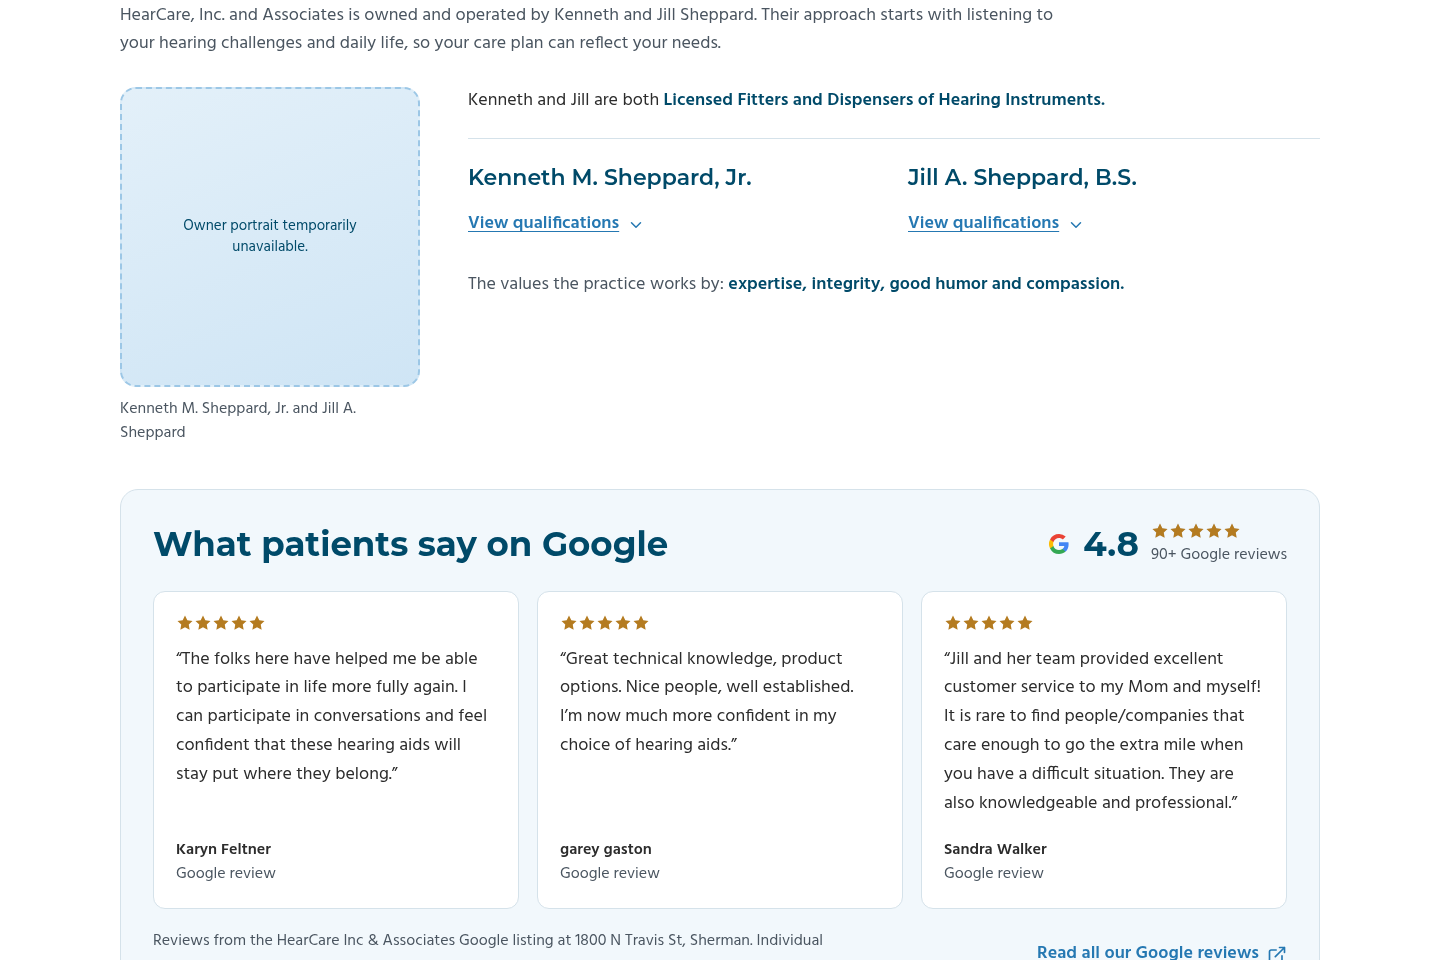
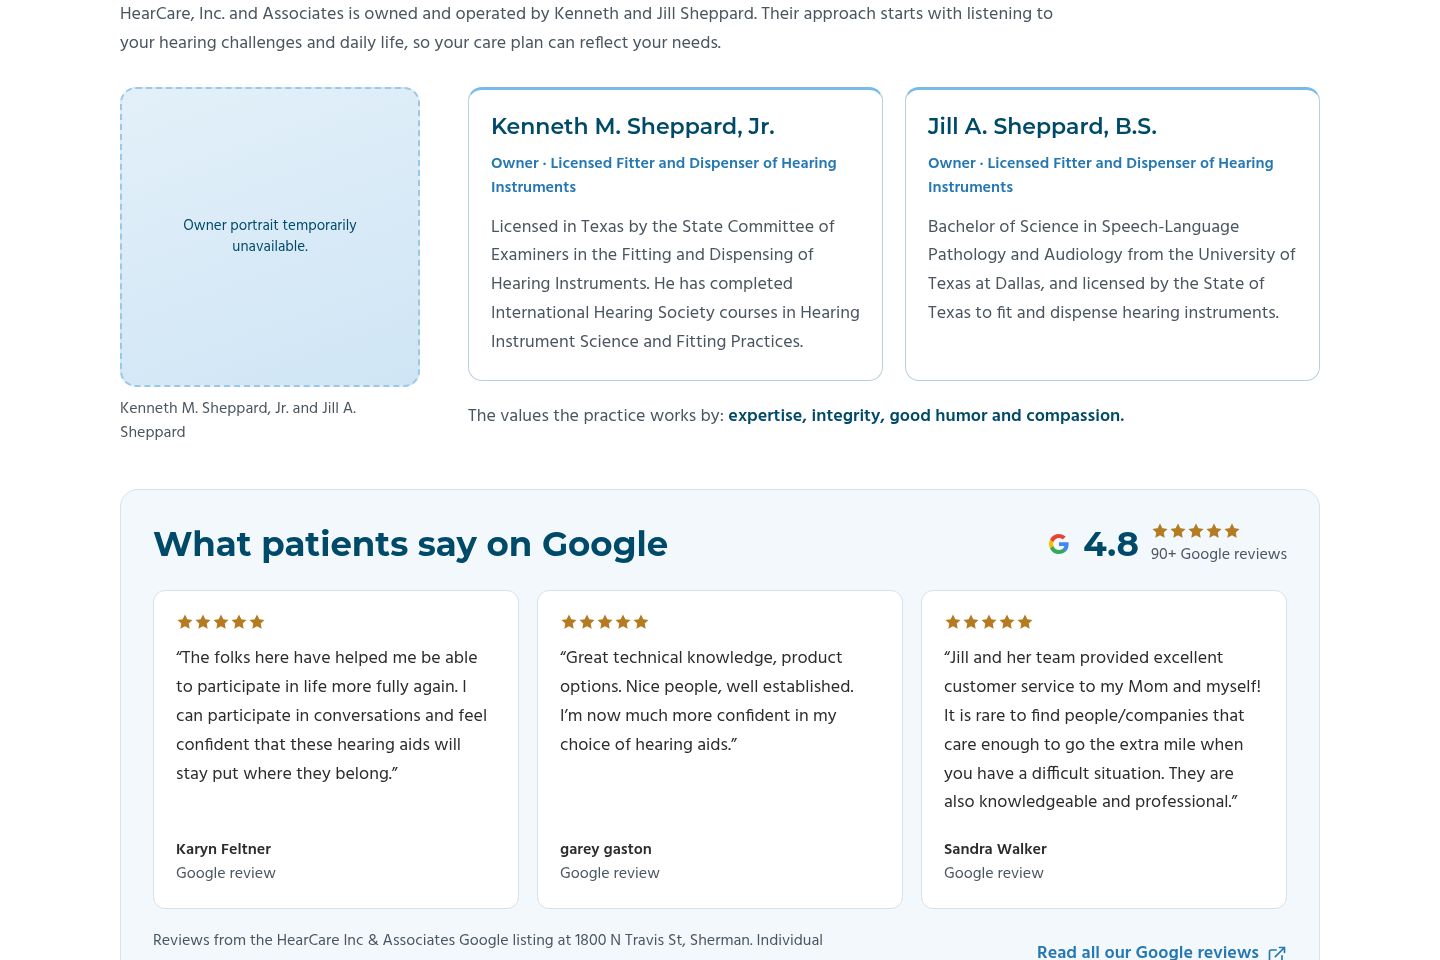
Show owner qualifications directly in visible profiles

diff --git a/index.html b/index.html
@@ -467,6 +467,18 @@ a:hover{ color:var(--hc-navy); }
  .hc-practice .hc-owner-license{ line-height:1.55; }
 }
 
+/* Visible owner profiles: qualifications available without expansion. */
+.hc-practice .hc-creds{ margin-top:0; gap:22px; }
+.hc-practice .hc-cred{ padding:22px; border:1px solid #b8cfdd; border-top:3px solid var(--hc-sky); border-radius:14px; background:var(--hc-white); }
+.hc-practice .hc-cred p{ margin-top:14px; font-size:1.125rem; line-height:1.6; color:var(--hc-muted); }
+.hc-practice .hc-cred .hc-owner-role{ margin-top:10px; color:var(--hc-blue); font-size:1rem; line-height:1.5; font-weight:600; }
+.hc-practice .hc-values{ margin-top:22px; }
+@media(max-width:639px){
+ .hc-practice .hc-owners{ grid-template-areas:"portrait" "credentials" "values"; gap:22px; }
+ .hc-practice .hc-creds{ gap:18px; }
+ .hc-practice .hc-cred,.hc-practice .hc-cred + .hc-cred{ padding:22px 18px; border:1px solid #b8cfdd; border-top:3px solid var(--hc-sky); }
+}
+
 /* ---------- Process: two-phase editorial layout ---------- */
 .hc-process{ padding:64px 0; background:var(--hc-white); }
 .hc-process__intro{ max-width:940px; margin-bottom:34px; }
@@ -993,21 +1005,16 @@ a:hover{ color:var(--hc-navy); }
         <figcaption>Kenneth M. Sheppard, Jr. and Jill A. Sheppard</figcaption>
       </figure>
       <div class="hc-owner-content">
-        <p class="hc-owner-license">Kenneth and Jill are both <strong>Licensed Fitters and Dispensers of Hearing Instruments.</strong></p>
         <div class="hc-creds">
           <div class="hc-cred">
             <h3>Kenneth M. Sheppard, Jr.</h3>
-            <details class="hc-owner-quals">
-              <summary>View qualifications<svg class="hc-icon" aria-hidden="true"><use href="#i-chev"/></svg></summary>
-              <p>Licensed in Texas by the State Committee of Examiners in the Fitting and Dispensing of Hearing Instruments. He has completed International Hearing Society courses in Hearing Instrument Science and Fitting Practices.</p>
-            </details>
+            <p class="hc-owner-role">Owner · Licensed Fitter and Dispenser of Hearing Instruments</p>
+            <p>Licensed in Texas by the State Committee of Examiners in the Fitting and Dispensing of Hearing Instruments. He has completed International Hearing Society courses in Hearing Instrument Science and Fitting Practices.</p>
           </div>
           <div class="hc-cred">
             <h3>Jill A. Sheppard, B.S.</h3>
-            <details class="hc-owner-quals">
-              <summary>View qualifications<svg class="hc-icon" aria-hidden="true"><use href="#i-chev"/></svg></summary>
-              <p>Bachelor of Science in Speech-Language Pathology and Audiology from the University of Texas at Dallas, and licensed by the State of Texas to fit and dispense hearing instruments.</p>
-            </details>
+            <p class="hc-owner-role">Owner · Licensed Fitter and Dispenser of Hearing Instruments</p>
+            <p>Bachelor of Science in Speech-Language Pathology and Audiology from the University of Texas at Dallas, and licensed by the State of Texas to fit and dispense hearing instruments.</p>
           </div>
         </div>
         <p class="hc-values">The values the practice works by: <strong>expertise, integrity, good humor and compassion.</strong></p>

diff --git a/review/hero-review.html b/review/hero-review.html
@@ -467,6 +467,18 @@ a:hover{ color:var(--hc-navy); }
  .hc-practice .hc-owner-license{ line-height:1.55; }
 }
 
+/* Visible owner profiles: qualifications available without expansion. */
+.hc-practice .hc-creds{ margin-top:0; gap:22px; }
+.hc-practice .hc-cred{ padding:22px; border:1px solid #b8cfdd; border-top:3px solid var(--hc-sky); border-radius:14px; background:var(--hc-white); }
+.hc-practice .hc-cred p{ margin-top:14px; font-size:1.125rem; line-height:1.6; color:var(--hc-muted); }
+.hc-practice .hc-cred .hc-owner-role{ margin-top:10px; color:var(--hc-blue); font-size:1rem; line-height:1.5; font-weight:600; }
+.hc-practice .hc-values{ margin-top:22px; }
+@media(max-width:639px){
+ .hc-practice .hc-owners{ grid-template-areas:"portrait" "credentials" "values"; gap:22px; }
+ .hc-practice .hc-creds{ gap:18px; }
+ .hc-practice .hc-cred,.hc-practice .hc-cred + .hc-cred{ padding:22px 18px; border:1px solid #b8cfdd; border-top:3px solid var(--hc-sky); }
+}
+
 /* ---------- Process: two-phase editorial layout ---------- */
 .hc-process{ padding:64px 0; background:var(--hc-white); }
 .hc-process__intro{ max-width:940px; margin-bottom:34px; }
@@ -993,21 +1005,16 @@ a:hover{ color:var(--hc-navy); }
         <figcaption>Kenneth M. Sheppard, Jr. and Jill A. Sheppard</figcaption>
       </figure>
       <div class="hc-owner-content">
-        <p class="hc-owner-license">Kenneth and Jill are both <strong>Licensed Fitters and Dispensers of Hearing Instruments.</strong></p>
         <div class="hc-creds">
           <div class="hc-cred">
             <h3>Kenneth M. Sheppard, Jr.</h3>
-            <details class="hc-owner-quals">
-              <summary>View qualifications<svg class="hc-icon" aria-hidden="true"><use href="#i-chev"/></svg></summary>
-              <p>Licensed in Texas by the State Committee of Examiners in the Fitting and Dispensing of Hearing Instruments. He has completed International Hearing Society courses in Hearing Instrument Science and Fitting Practices.</p>
-            </details>
+            <p class="hc-owner-role">Owner · Licensed Fitter and Dispenser of Hearing Instruments</p>
+            <p>Licensed in Texas by the State Committee of Examiners in the Fitting and Dispensing of Hearing Instruments. He has completed International Hearing Society courses in Hearing Instrument Science and Fitting Practices.</p>
           </div>
           <div class="hc-cred">
             <h3>Jill A. Sheppard, B.S.</h3>
-            <details class="hc-owner-quals">
-              <summary>View qualifications<svg class="hc-icon" aria-hidden="true"><use href="#i-chev"/></svg></summary>
-              <p>Bachelor of Science in Speech-Language Pathology and Audiology from the University of Texas at Dallas, and licensed by the State of Texas to fit and dispense hearing instruments.</p>
-            </details>
+            <p class="hc-owner-role">Owner · Licensed Fitter and Dispenser of Hearing Instruments</p>
+            <p>Bachelor of Science in Speech-Language Pathology and Audiology from the University of Texas at Dallas, and licensed by the State of Texas to fit and dispense hearing instruments.</p>
           </div>
         </div>
         <p class="hc-values">The values the practice works by: <strong>expertise, integrity, good humor and compassion.</strong></p>

diff --git a/review/TRUST_REVIEW.md b/review/TRUST_REVIEW.md
@@ -45,3 +45,11 @@ User-requested mobile centering: center the owner heading/introduction, shared l
 ## Final approval
 
 User explicitly approved this group after the mobile centering correction. Implementation ce97231 is APPROVED / LOCKED, superseding all earlier pending-review notes. Current group includes the user-hosted portrait, centered mobile owners and three-review proof area. No material edits or repositioning without specific permission. Next proposed existing section is the process, awaiting its desktop/mobile screenshots before individual assessment.
+
+
+## User-authorized visible owner qualifications
+
+User requested removing View qualifications dropdowns and filling the empty profile area so both providers can be understood immediately. Replace the two owner disclosures with permanently visible full source-backed backgrounds and individual Owner / Licensed Fitter and Dispenser of Hearing Instruments role lines. Do not call them audiologists or doctors; their documented credentials establish licensed hearing-instrument specialists. Remove the redundant shared license line and its empty mobile grid slot. Use two bordered profiles beside the authentic portrait on desktop; stack on mobile with the previously requested centering. Preserve all original biography facts, owner names, image, values and the entire Google-review group. Other sections and integrations unchanged. Awaiting rendered review of this revision.
+
+
+Visible-profile checks passed at seven widths (320–1920px): two profiles, no qualification details/summary elements, 18px biography paragraphs, no section overflow. Desktop composition inspected; authentic image URL preserved, but local photo retrieval remains blocked and its fallback appears in local captures. Google-review markup and all later sections remain byte-identical. Existing mobile centering is preserved.

diff --git a/CONTENT_DIRECTION.md b/CONTENT_DIRECTION.md
@@ -297,3 +297,8 @@ User authorized feasible audit improvements. Tighten repeated process/options/FA
 ## User-authorized refined hero hierarchy
 
 User approved the refined split-hero recommendation with “okay make the changes.” Preserve H1 wording, original size/color/weight and mobile natural wrapping; retain every text statement and image URL. Quiet the eyebrow, reduce competing callout styling, group Google proof with the owner credential beneath aligned CTAs, and simplify address/hours without a tinted panel. Refine photo proportions/crop and corner treatment; preserve both faces. Explicit white-outline default and navy-on-white hover/focus fix the faded appointment button; add matching label wrapper. Desktop padding 52/56px and mobile 30/36px. No other section, header, integration, phone or review value changed. This user-authorized revision reopens only hero presentation; awaiting rendered approval.
+
+
+## User-authorized visible owner qualifications
+
+User requested removing View qualifications dropdowns and filling the empty profile area so both providers can be understood immediately. Replace the two owner disclosures with permanently visible full source-backed backgrounds and individual Owner / Licensed Fitter and Dispenser of Hearing Instruments role lines. Do not call them audiologists or doctors; their documented credentials establish licensed hearing-instrument specialists. Remove the redundant shared license line and its empty mobile grid slot. Use two bordered profiles beside the authentic portrait on desktop; stack on mobile with the previously requested centering. Preserve all original biography facts, owner names, image, values and the entire Google-review group. Other sections and integrations unchanged. Awaiting rendered review of this revision.

diff --git a/PAGE_STRATEGY.md b/PAGE_STRATEGY.md
@@ -351,3 +351,8 @@ Replace generic Care/Our Practice labels and provide six meaningful header ancho
 ## User-authorized refined hero hierarchy
 
 User approved the refined split-hero recommendation with “okay make the changes.” Preserve H1 wording, original size/color/weight and mobile natural wrapping; retain every text statement and image URL. Quiet the eyebrow, reduce competing callout styling, group Google proof with the owner credential beneath aligned CTAs, and simplify address/hours without a tinted panel. Refine photo proportions/crop and corner treatment; preserve both faces. Explicit white-outline default and navy-on-white hover/focus fix the faded appointment button; add matching label wrapper. Desktop padding 52/56px and mobile 30/36px. No other section, header, integration, phone or review value changed. This user-authorized revision reopens only hero presentation; awaiting rendered approval.
+
+
+## User-authorized visible owner qualifications
+
+User requested removing View qualifications dropdowns and filling the empty profile area so both providers can be understood immediately. Replace the two owner disclosures with permanently visible full source-backed backgrounds and individual Owner / Licensed Fitter and Dispenser of Hearing Instruments role lines. Do not call them audiologists or doctors; their documented credentials establish licensed hearing-instrument specialists. Remove the redundant shared license line and its empty mobile grid slot. Use two bordered profiles beside the authentic portrait on desktop; stack on mobile with the previously requested centering. Preserve all original biography facts, owner names, image, values and the entire Google-review group. Other sections and integrations unchanged. Awaiting rendered review of this revision.

diff --git a/DESIGN_SYSTEM.md b/DESIGN_SYSTEM.md
@@ -354,3 +354,8 @@ User approved the refined split-hero recommendation with “okay make the change
 
 
 User requested additional breathing space after the latest desktop screenshot. Increase only hero spacing: section padding, service-label-to-headline gap, benefit/body gaps, CTA spacing, trust divider spacing, credential separation and location-line spacing, with moderated mobile increases. Preserve font sizes, all wording, images, headline wrapping rules, button colors and other sections. Awaiting rendered review.
+
+
+## User-authorized visible owner qualifications
+
+User requested removing View qualifications dropdowns and filling the empty profile area so both providers can be understood immediately. Replace the two owner disclosures with permanently visible full source-backed backgrounds and individual Owner / Licensed Fitter and Dispenser of Hearing Instruments role lines. Do not call them audiologists or doctors; their documented credentials establish licensed hearing-instrument specialists. Remove the redundant shared license line and its empty mobile grid slot. Use two bordered profiles beside the authentic portrait on desktop; stack on mobile with the previously requested centering. Preserve all original biography facts, owner names, image, values and the entire Google-review group. Other sections and integrations unchanged. Awaiting rendered review of this revision.

diff --git a/CURRENT_STATE.md b/CURRENT_STATE.md
@@ -18,7 +18,7 @@ This summary records the latest user instructions. Historical strategy/source no
 | Header | Six valid section links; latest navigation implementation needs final rendered sign-off |
 | Hero | User authorized a refined split presentation after approval; headline wording/size/white color and image preserved; latest layout awaiting rendered sign-off |
 | Listening difficulties | Explicitly approved |
-| Owners and Google proof | Explicitly approved; three verbatim reviews, 4.8 / 90+ user-approved display, evidence is historical screenshots |
+| Owners and Google proof | User-authorized visible owner profiles awaiting review; Google reviews remain unchanged and approved, with three verbatim reviews and historical 4.8 / 90+ evidence |
 | Process | Implemented; no distinct final rendered approval recorded |
 | Hearing-aid options | Explicitly approved before subsequent authorized audit wording updates |
 | Payment | Explicitly approved |
